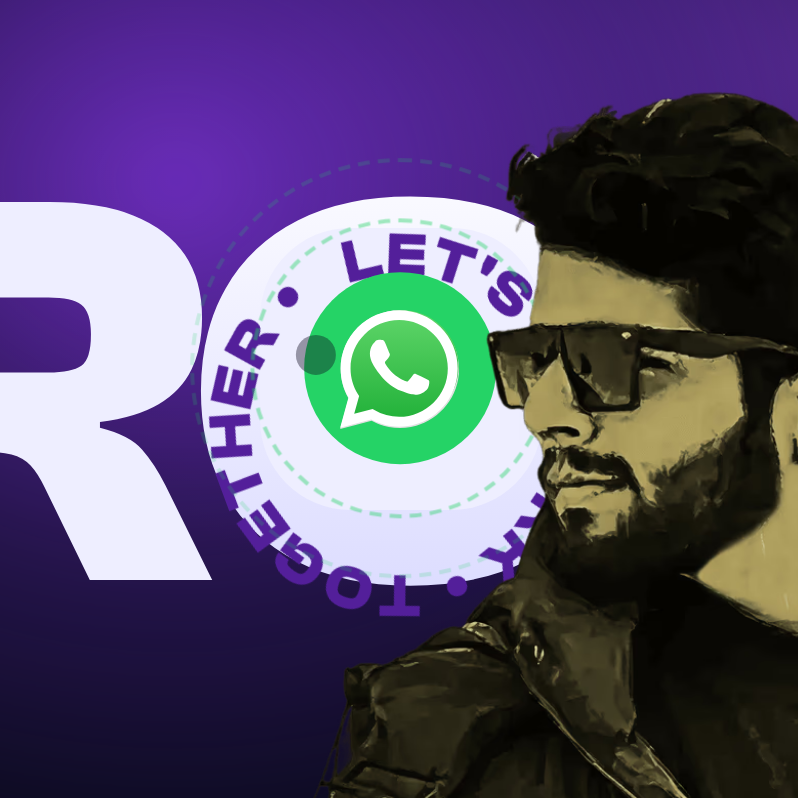
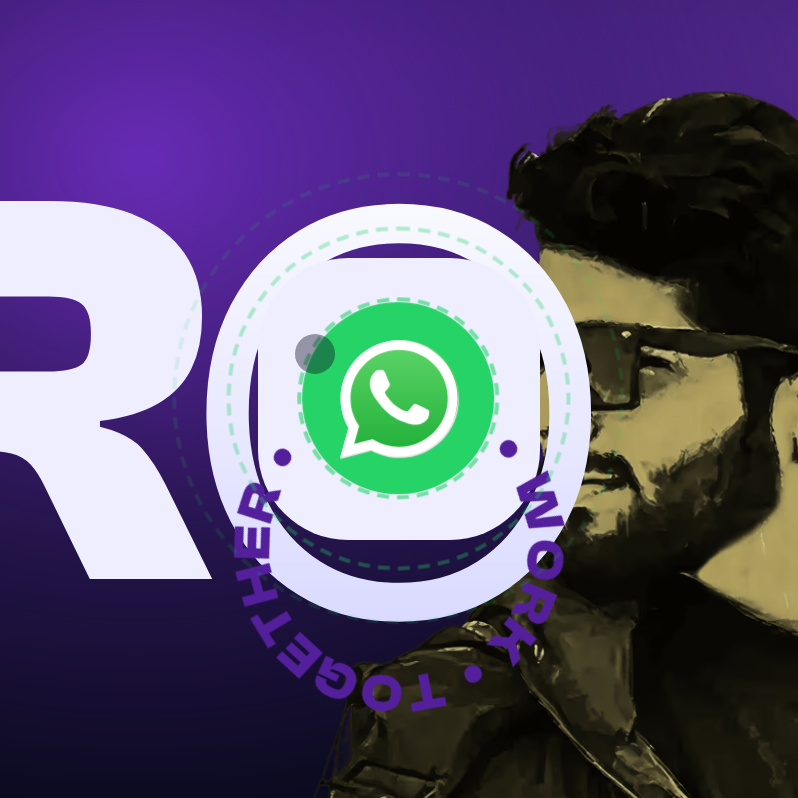
Hero round 5: fix O/role stacking (root cause) — O + role now in front of portrait, O fill/centring/ripple correct
ROOT CAUSE: skewX/translateY transforms created stacking contexts that
trapped the role + O reveal BEHIND the portrait, and the O lived inside
PRODUCT (behind portrait) so its counter showed the photo + clipped the icon.

Fix: PR/DUCT stay in .hero__product (z1, behind portrait via an invisible
O-spacer for spacing); the real O is a separate absolutely-positioned layer
(z5, in front of portrait) and the role is z4 (in front). All three skew
around the SAME origin (.hero__text top-left) via matched transform-origins,
so they shear as one word on scroll.

Result (verified 1920/1440/1280/1024 + mobile):
- A1/A4 WhatsApp icon dead-centre in the counter, full/uncropped
- A2 O no longer clipped by the portrait (it's above it)
- A3 ring concentric inside the counter (badge 0.62em)
- A5 O fills solid (#EEEEFF) on hover; counter no longer see-through
- B role words fully in front of the portrait (no gradient/occlusion)
- mobile: overlay hidden, inline O shown so PRODUCT reads normally

diff --git a/src/components/hero.css b/src/components/hero.css
@@ -91,16 +91,31 @@
   white-space: nowrap;
   position: relative;
   z-index: 1; /* behind portrait */
+  transform-origin: 0 0; /* shared skew origin with .hero__o and role */
 }
+.hero__o-spacer { visibility: hidden; } /* reserves the O's width in the word; real O is the overlay below */
+
+/* The O is a separate layer IN FRONT of the portrait, positioned over the spacer,
+   skewing around the same origin as PRODUCT so it tracks the word on scroll. */
 .hero__o {
-  position: relative;
-  display: inline-block;
-  /* keep the gradient text fill on the O even though it's a link */
+  position: absolute;
+  left: calc(366 * var(--u));
+  top: 0;
+  width: calc(210 * var(--u));
+  height: calc(282 * var(--u));
+  z-index: 5; /* above the portrait */
+  font-size: calc(282 * var(--u));
+  transform-origin: calc(-366 * var(--u)) 0; /* = .hero__text top-left */
+  display: flex;
+  align-items: center;
+  justify-content: center;
+  /* gradient text fill on the O letter */
   background: linear-gradient(0deg, #d6d6ff 0%, #ffffff 100%);
   -webkit-background-clip: text;
   background-clip: text;
   color: transparent;
   -webkit-text-fill-color: transparent;
+  line-height: 1;
 }
 /* ---------------------------------------------------------------------------
    O children are centred on the O's COUNTER and sized in em (relative to the O's
@@ -109,7 +124,7 @@
    --------------------------------------------------------------------------- */
 .hero__o {
   --o-cx: 0em;
-  --o-cy: -0.055em;
+  --o-cy: 0em; /* O letter is flex-centred in its box, so counter centre = box centre */
 }
 .hero__o > .hero__o-fill,
 .hero__o > .badge,
@@ -187,8 +202,8 @@
 
 /* Rotating badge over the O (ring text) */
 .badge {
-  width: 0.72em;
-  height: 0.72em;
+  width: 0.62em;
+  height: 0.62em;
   z-index: 3;
   pointer-events: none;
 }
@@ -208,8 +223,12 @@
 }
 @keyframes badge-spin { to { transform: rotate(360deg); } }
 
-/* role + badge group shifted down 64px (directed), moving together */
-.hero__role-shift { transform: translateY(64px); }
+/* role group: in front of the portrait (z4), skews around the shared origin; +64px via motion */
+.hero__role-shift {
+  position: relative;
+  z-index: 4;
+  transform-origin: 0 calc(-354 * var(--u)); /* = .hero__text top-left */
+}
 
 /* Role ticker */
 .role {
@@ -394,6 +413,9 @@
     margin: 0;
   }
   .badge { display: none; } /* no rotating badge on phone */
+  .hero__o { display: none; } /* overlay off; show the inline O instead */
+  .hero__o-spacer { visibility: visible; } /* inline O in PRODUCT on phone */
+  .hero__role-shift { transform: none !important; z-index: auto; } /* no skew/shift on phone */
   .role { display: none; }  /* desktop cycler hidden */
   .hero__roles-m {
     display: block;

diff --git a/src/components/Hero.tsx b/src/components/Hero.tsx
@@ -31,36 +31,46 @@ export function Hero() {
         <img src="/images/face.webp" alt="" width={300} height={642} />
       </picture>
 
-      {/* Wordmark + role ticker — skews with scroll */}
-      <motion.div className="hero__text" style={{ skewX, x }}>
-        <h1 className="hero__product">
-          PR
-          <a className="hero__o" href={LINKS.whatsapp} {...EXTERNAL} aria-label="Chat on WhatsApp">
-            O
-            <span className="hero__o-fill" aria-hidden="true" />
-            <RotatingBadge />
-            <span className="hero__o-wa" aria-hidden="true">
-              <span className="hero__ripple" />
-              <span className="hero__ripple" />
-              <span className="hero__ripple" />
-              <span className="hero__ripple" />
-              <span className="hero__wa">
-                <WhatsAppIcon size={54} />
-              </span>
+      {/* Wordmark + role ticker. Each piece skews with scroll around the SAME origin
+          (.hero__text top-left) so they shear as one, but layer independently vs the portrait:
+          PR/DUCT behind (z1), the O and role in front (z5/z4). */}
+      <div className="hero__text">
+        <motion.h1 className="hero__product" style={{ skewX, x }}>
+          PR<span className="hero__o-spacer" aria-hidden="true">O</span>DUCT
+        </motion.h1>
+
+        <motion.a
+          className="hero__o"
+          href={LINKS.whatsapp}
+          {...EXTERNAL}
+          aria-label="Chat on WhatsApp"
+          style={{ skewX, x }}
+        >
+          O
+          <span className="hero__o-fill" aria-hidden="true" />
+          <RotatingBadge />
+          <span className="hero__o-wa" aria-hidden="true">
+            <span className="hero__ripple" />
+            <span className="hero__ripple" />
+            <span className="hero__ripple" />
+            <span className="hero__ripple" />
+            <span className="hero__wa">
+              <WhatsAppIcon size={54} />
             </span>
-          </a>
-          DUCT
-        </h1>
-        <div className="hero__role-shift">
+          </span>
+        </motion.a>
+
+        <motion.div className="hero__role-shift" style={{ skewX, x, y: 64 }}>
           <RoleTicker />
-        </div>
+        </motion.div>
+
         {/* Mobile: full role list, decreasing size, fading downward */}
         <ul className="hero__roles-m" aria-hidden="true">
           {ROLES.map((r) => (
             <li key={r}>{r}</li>
           ))}
         </ul>
-      </motion.div>
+      </div>
 
       {/* bottom ramp: fades the portrait's lower edge + the background into black */}
       <div className="hero__fade" aria-hidden="true" />
